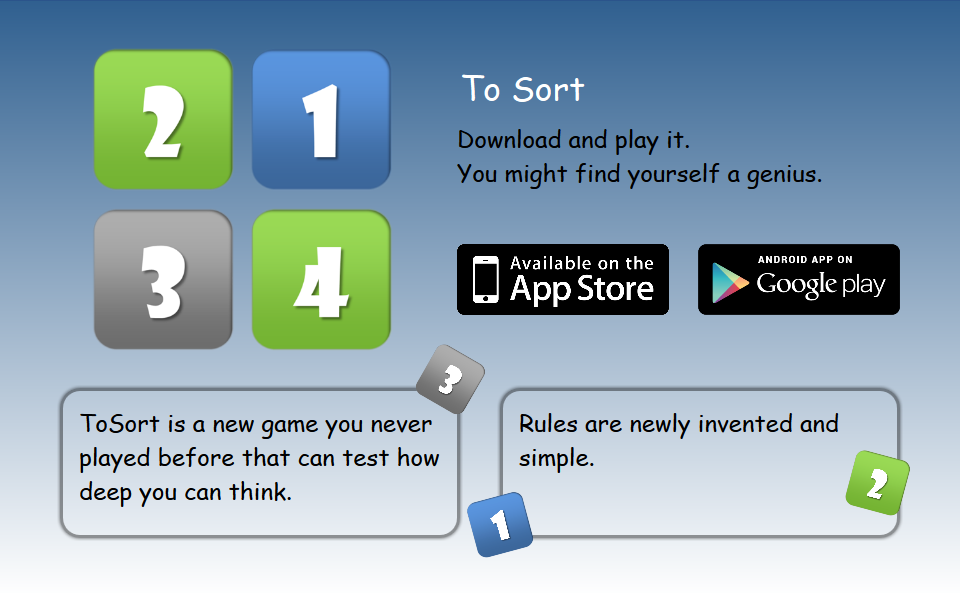
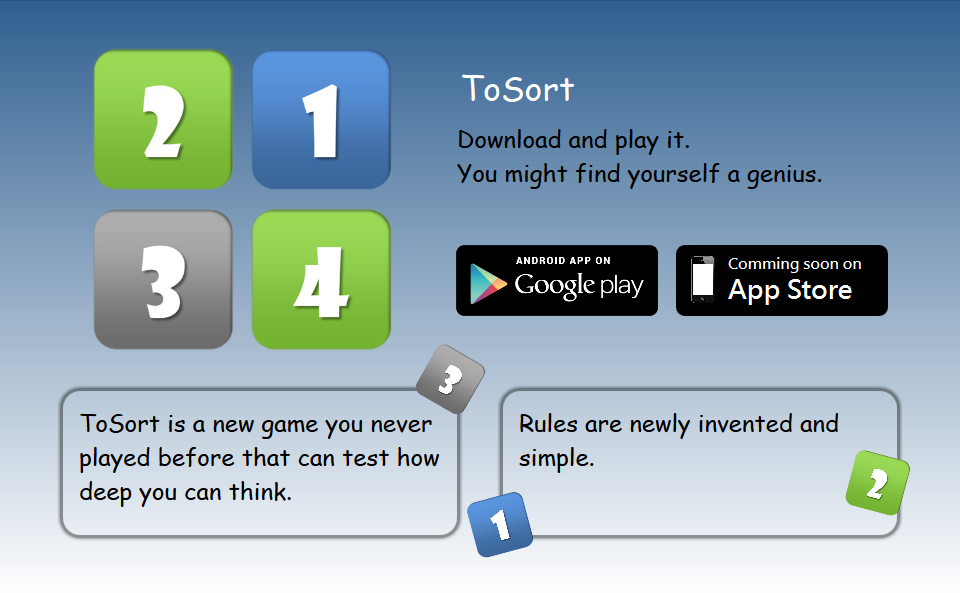
增加Delivering Babies和ToSort連結 增加每個頁面Analytics
v0.7

Changed region(s): [[0.4688, 0.3946, 0.9375, 0.5464], [0.5312, 0.1214, 0.625, 0.1821]]

diff --git a/tw/DeliveringBabies.html b/tw/DeliveringBabies.html
@@ -9,7 +9,16 @@
 
   <script src="../javascripts/jquery-1.9.0.min.js"></script>
   <script src="../javascripts/jquery.nivo.slider.pack.js"></script>
+  <script>
+    (function(i,s,o,g,r,a,m){i['GoogleAnalyticsObject']=r;i[r]=i[r]||function(){
+    (i[r].q=i[r].q||[]).push(arguments)},i[r].l=1*new Date();a=s.createElement(o),
+    m=s.getElementsByTagName(o)[0];a.async=1;a.src=g;m.parentNode.insertBefore(a,m)
+    })(window,document,'script','//www.google-analytics.com/analytics.js','ga');
 
+    ga('create', 'UA-42736176-1', 'thesupaapps.github.io');
+    ga('send', 'pageview');
+
+  </script>
   <title>中輝資訊有限公司</title>
 </head>
 
@@ -34,7 +43,12 @@
     </ul>
   </div>
 
-  <div class="ad"><img src="images/describeDeliveringBabies.png" width="960" height="593"></div>
+   <div class="ad"><img src="images/describeDeliveringBabies.png" width="960" height="593" usemap = "DeliveringBabiesMap">
+    <map name="DeliveringBabiesMap">
+        <area shape="rect" coords="550,180,700,240" target="_blank" href="http://play.google.com/store/apps/details?id=com.delivering_babies.full">
+        <area shape="rect" coords="550,270,700,330" target="_blank" href="https://play.google.com/store/apps/details?id=com.delivering_babies.free">
+     </map>
+  </div>
 
   <div class="main"><img src="images/NEWS.png" width="881" height="140"></div>
 

diff --git a/en/DeliveringBabies.html b/en/DeliveringBabies.html
@@ -9,7 +9,16 @@
 
   <script src="../javascripts/jquery-1.9.0.min.js"></script>
   <script src="../javascripts/jquery.nivo.slider.pack.js"></script>
+  <script>
+    (function(i,s,o,g,r,a,m){i['GoogleAnalyticsObject']=r;i[r]=i[r]||function(){
+    (i[r].q=i[r].q||[]).push(arguments)},i[r].l=1*new Date();a=s.createElement(o),
+    m=s.getElementsByTagName(o)[0];a.async=1;a.src=g;m.parentNode.insertBefore(a,m)
+    })(window,document,'script','//www.google-analytics.com/analytics.js','ga');
 
+    ga('create', 'UA-42736176-1', 'thesupaapps.github.io');
+    ga('send', 'pageview');
+
+  </script>
   <title>中輝資訊有限公司</title>
 </head>
 
@@ -34,7 +43,12 @@
     </ul>
   </div>
 
-  <div class="ad"><img src="images/describeDeliveringBabies.png" width="960" height="593"></div>
+  <div class="ad"><img src="images/describeDeliveringBabies.png" width="960" height="593" usemap = "DeliveringBabiesMap">
+    <map name="DeliveringBabiesMap">
+        <area shape="rect" coords="550,180,700,240" target="_blank" href="http://play.google.com/store/apps/details?id=com.delivering_babies.full">
+        <area shape="rect" coords="550,270,700,330" target="_blank" href="https://play.google.com/store/apps/details?id=com.delivering_babies.free">
+     </map>
+  </div>
 
   <div class="main"><img src="images/NEWS.png" width="881" height="140"></div>
 

diff --git a/en/ToSort.html b/en/ToSort.html
@@ -9,7 +9,16 @@
 
   <script src="../javascripts/jquery-1.9.0.min.js"></script>
   <script src="../javascripts/jquery.nivo.slider.pack.js"></script>
+  <script>
+    (function(i,s,o,g,r,a,m){i['GoogleAnalyticsObject']=r;i[r]=i[r]||function(){
+    (i[r].q=i[r].q||[]).push(arguments)},i[r].l=1*new Date();a=s.createElement(o),
+    m=s.getElementsByTagName(o)[0];a.async=1;a.src=g;m.parentNode.insertBefore(a,m)
+    })(window,document,'script','//www.google-analytics.com/analytics.js','ga');
 
+    ga('create', 'UA-42736176-1', 'thesupaapps.github.io');
+    ga('send', 'pageview');
+
+  </script>
   <title>中輝資訊有限公司</title>
 </head>
 
@@ -34,7 +43,11 @@
     </ul>
   </div>
 
-  <div class="ad"><img src="images/describeToSort.png" width="960" height="593"></div>
+  <div class="ad"><img src="images/describeToSort.png" width="960" height="593" usemap="ToSortMap">
+    <map name="ToSortMap">
+        <area shape="rect" coords="450,240,665,320" target="_blank" href="https://play.google.com/store/apps/details?id=ntl.android.tosort">
+     </map>
+  </div>
 
   <div class="main"><img src="images/NEWS.png" width="881" height="140"></div>
 

diff --git a/tw/ToSort.html b/tw/ToSort.html
@@ -9,7 +9,16 @@
 
   <script src="../javascripts/jquery-1.9.0.min.js"></script>
   <script src="../javascripts/jquery.nivo.slider.pack.js"></script>
+  <script>
+    (function(i,s,o,g,r,a,m){i['GoogleAnalyticsObject']=r;i[r]=i[r]||function(){
+    (i[r].q=i[r].q||[]).push(arguments)},i[r].l=1*new Date();a=s.createElement(o),
+    m=s.getElementsByTagName(o)[0];a.async=1;a.src=g;m.parentNode.insertBefore(a,m)
+    })(window,document,'script','//www.google-analytics.com/analytics.js','ga');
 
+    ga('create', 'UA-42736176-1', 'thesupaapps.github.io');
+    ga('send', 'pageview');
+
+  </script>
   <title>中輝資訊有限公司</title>
 </head>
 
@@ -34,7 +43,11 @@
     </ul>
   </div>
 
-  <div class="ad"><img src="images/describeToSort.png" width="960" height="593"></div>
+  <div class="ad"><img src="images/describeToSort.png" width="960" height="593" usemap="ToSortMap">
+    <map name="ToSortMap">
+        <area shape="rect" coords="450,240,665,320" target="_blank" href="https://play.google.com/store/apps/details?id=ntl.android.tosort">
+     </map>
+  </div>
 
   <div class="main"><img src="images/NEWS.png" width="881" height="140"></div>
 

diff --git a/index.html b/index.html
@@ -5,13 +5,13 @@
   <meta charset="UTF-8">
   <title>中輝資訊有限公司</title>
   <script>
-  (function(i,s,o,g,r,a,m){i['GoogleAnalyticsObject']=r;i[r]=i[r]||function(){
-  (i[r].q=i[r].q||[]).push(arguments)},i[r].l=1*new Date();a=s.createElement(o),
-  m=s.getElementsByTagName(o)[0];a.async=1;a.src=g;m.parentNode.insertBefore(a,m)
-  })(window,document,'script','//www.google-analytics.com/analytics.js','ga');
+    (function(i,s,o,g,r,a,m){i['GoogleAnalyticsObject']=r;i[r]=i[r]||function(){
+    (i[r].q=i[r].q||[]).push(arguments)},i[r].l=1*new Date();a=s.createElement(o),
+    m=s.getElementsByTagName(o)[0];a.async=1;a.src=g;m.parentNode.insertBefore(a,m)
+    })(window,document,'script','//www.google-analytics.com/analytics.js','ga');
 
-  ga('create', 'UA-42736176-1', 'thesupaapps.github.io');
-  ga('send', 'pageview');
+    ga('create', 'UA-42736176-1', 'thesupaapps.github.io');
+    ga('send', 'pageview');
 
   </script>
   <script>

diff --git a/en/About.html b/en/About.html
@@ -10,7 +10,16 @@
 
   <script src="../javascripts/jquery-1.9.0.min.js"></script>
   <script src="../javascripts/jquery.nivo.slider.pack.js"></script>
+  <script>
+    (function(i,s,o,g,r,a,m){i['GoogleAnalyticsObject']=r;i[r]=i[r]||function(){
+    (i[r].q=i[r].q||[]).push(arguments)},i[r].l=1*new Date();a=s.createElement(o),
+    m=s.getElementsByTagName(o)[0];a.async=1;a.src=g;m.parentNode.insertBefore(a,m)
+    })(window,document,'script','//www.google-analytics.com/analytics.js','ga');
 
+    ga('create', 'UA-42736176-1', 'thesupaapps.github.io');
+    ga('send', 'pageview');
+
+  </script>
   <title>中輝資訊有限公司</title>
 </head>
 

diff --git a/en/Contact.html b/en/Contact.html
@@ -10,7 +10,16 @@
 
   <script src="../javascripts/jquery-1.9.0.min.js"></script>
   <script src="../javascripts/jquery.nivo.slider.pack.js"></script>
+  <script>
+    (function(i,s,o,g,r,a,m){i['GoogleAnalyticsObject']=r;i[r]=i[r]||function(){
+    (i[r].q=i[r].q||[]).push(arguments)},i[r].l=1*new Date();a=s.createElement(o),
+    m=s.getElementsByTagName(o)[0];a.async=1;a.src=g;m.parentNode.insertBefore(a,m)
+    })(window,document,'script','//www.google-analytics.com/analytics.js','ga');
 
+    ga('create', 'UA-42736176-1', 'thesupaapps.github.io');
+    ga('send', 'pageview');
+
+  </script>
   <title>中輝資訊有限公司</title>
 </head>
 

diff --git a/en/News.html b/en/News.html
@@ -10,7 +10,16 @@
 
   <script src="../javascripts/jquery-1.9.0.min.js"></script>
   <script src="../javascripts/jquery.nivo.slider.pack.js"></script>
+  <script>
+    (function(i,s,o,g,r,a,m){i['GoogleAnalyticsObject']=r;i[r]=i[r]||function(){
+    (i[r].q=i[r].q||[]).push(arguments)},i[r].l=1*new Date();a=s.createElement(o),
+    m=s.getElementsByTagName(o)[0];a.async=1;a.src=g;m.parentNode.insertBefore(a,m)
+    })(window,document,'script','//www.google-analytics.com/analytics.js','ga');
 
+    ga('create', 'UA-42736176-1', 'thesupaapps.github.io');
+    ga('send', 'pageview');
+
+  </script>
   <title>中輝資訊有限公司</title>
 </head>
 

diff --git a/en/index.html b/en/index.html
@@ -10,7 +10,16 @@
 
   <script src="../javascripts/jquery-1.9.0.min.js"></script>
   <script src="../javascripts/jquery.nivo.slider.pack.js"></script>
+  <script>
+    (function(i,s,o,g,r,a,m){i['GoogleAnalyticsObject']=r;i[r]=i[r]||function(){
+    (i[r].q=i[r].q||[]).push(arguments)},i[r].l=1*new Date();a=s.createElement(o),
+    m=s.getElementsByTagName(o)[0];a.async=1;a.src=g;m.parentNode.insertBefore(a,m)
+    })(window,document,'script','//www.google-analytics.com/analytics.js','ga');
 
+    ga('create', 'UA-42736176-1', 'thesupaapps.github.io');
+    ga('send', 'pageview');
+
+  </script>
   <title>中輝資訊有限公司</title>
 </head>
 

diff --git a/tw/About.html b/tw/About.html
@@ -10,7 +10,16 @@
 
   <script src="../javascripts/jquery-1.9.0.min.js"></script>
   <script src="../javascripts/jquery.nivo.slider.pack.js"></script>
+  <script>
+    (function(i,s,o,g,r,a,m){i['GoogleAnalyticsObject']=r;i[r]=i[r]||function(){
+    (i[r].q=i[r].q||[]).push(arguments)},i[r].l=1*new Date();a=s.createElement(o),
+    m=s.getElementsByTagName(o)[0];a.async=1;a.src=g;m.parentNode.insertBefore(a,m)
+    })(window,document,'script','//www.google-analytics.com/analytics.js','ga');
 
+    ga('create', 'UA-42736176-1', 'thesupaapps.github.io');
+    ga('send', 'pageview');
+
+  </script>
   <title>中輝資訊有限公司</title>
 </head>
 

diff --git a/tw/Contact.html b/tw/Contact.html
@@ -10,7 +10,16 @@
 
   <script src="../javascripts/jquery-1.9.0.min.js"></script>
   <script src="../javascripts/jquery.nivo.slider.pack.js"></script>
+  <script>
+    (function(i,s,o,g,r,a,m){i['GoogleAnalyticsObject']=r;i[r]=i[r]||function(){
+    (i[r].q=i[r].q||[]).push(arguments)},i[r].l=1*new Date();a=s.createElement(o),
+    m=s.getElementsByTagName(o)[0];a.async=1;a.src=g;m.parentNode.insertBefore(a,m)
+    })(window,document,'script','//www.google-analytics.com/analytics.js','ga');
 
+    ga('create', 'UA-42736176-1', 'thesupaapps.github.io');
+    ga('send', 'pageview');
+
+  </script>
   <title>中輝資訊有限公司</title>
 </head>
 

diff --git a/tw/News.html b/tw/News.html
@@ -10,7 +10,16 @@
 
   <script src="../javascripts/jquery-1.9.0.min.js"></script>
   <script src="../javascripts/jquery.nivo.slider.pack.js"></script>
+  <script>
+    (function(i,s,o,g,r,a,m){i['GoogleAnalyticsObject']=r;i[r]=i[r]||function(){
+    (i[r].q=i[r].q||[]).push(arguments)},i[r].l=1*new Date();a=s.createElement(o),
+    m=s.getElementsByTagName(o)[0];a.async=1;a.src=g;m.parentNode.insertBefore(a,m)
+    })(window,document,'script','//www.google-analytics.com/analytics.js','ga');
 
+    ga('create', 'UA-42736176-1', 'thesupaapps.github.io');
+    ga('send', 'pageview');
+
+  </script>
   <title>中輝資訊有限公司</title>
 </head>
 
